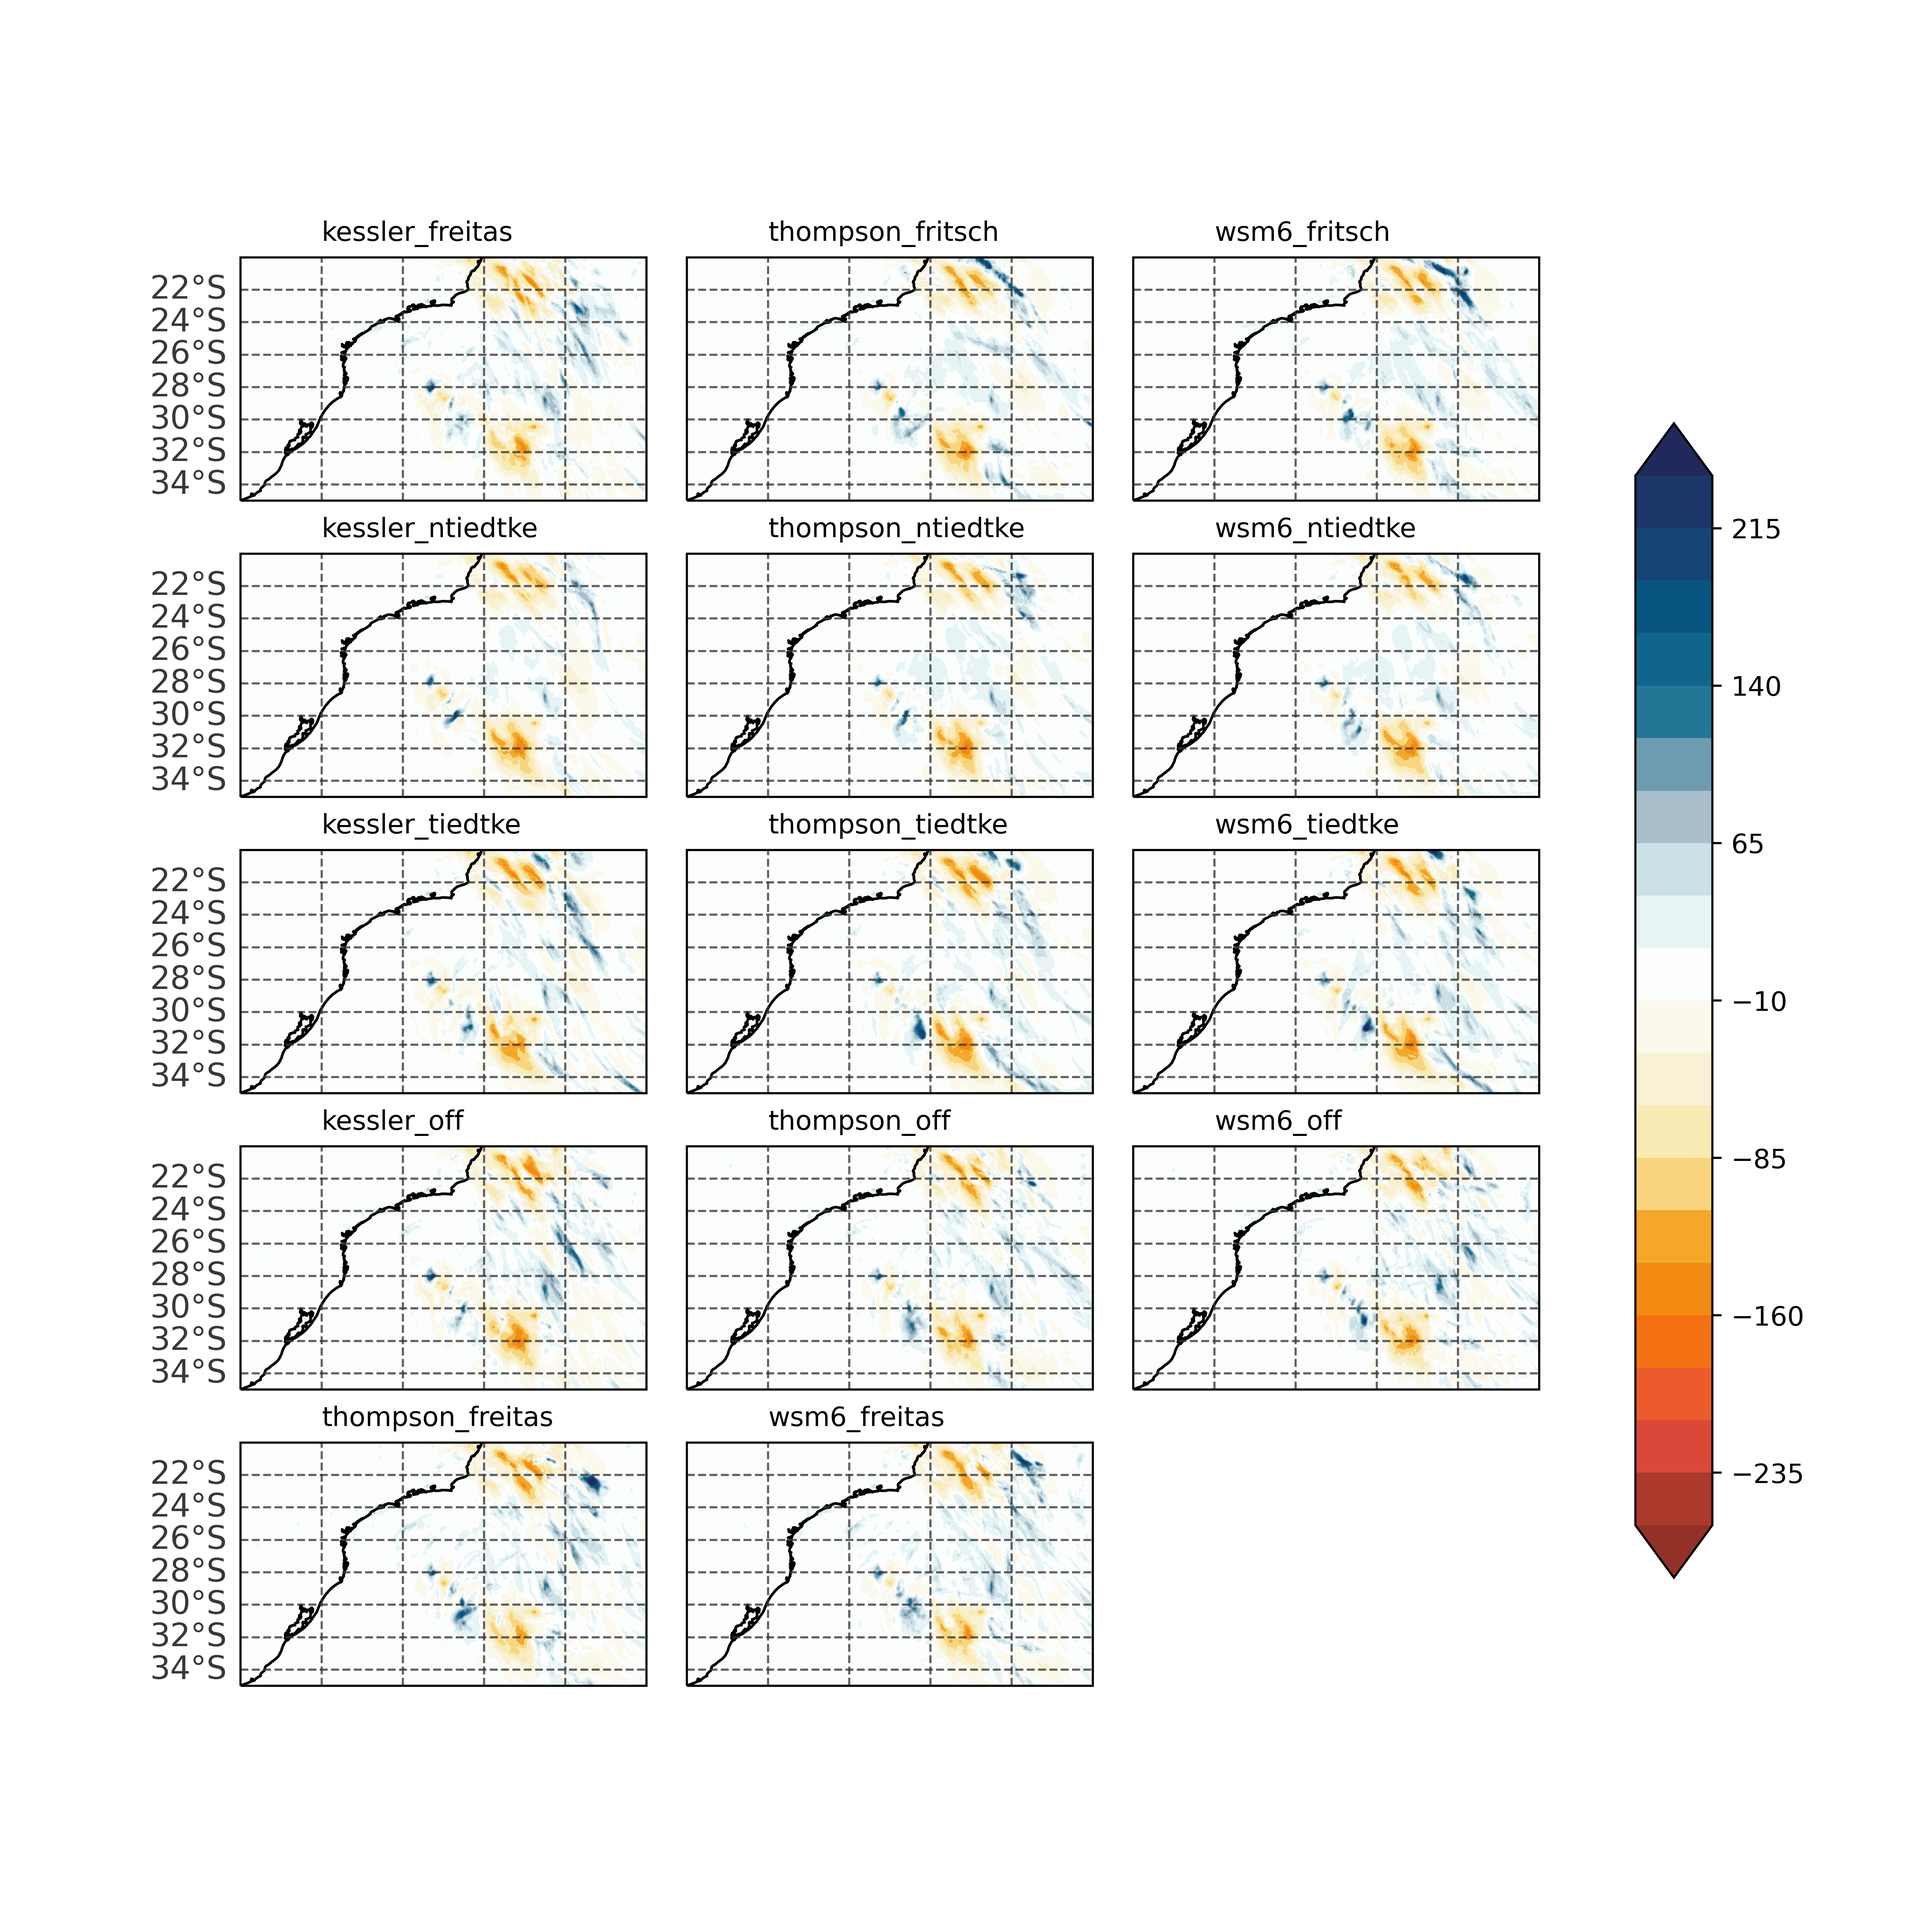
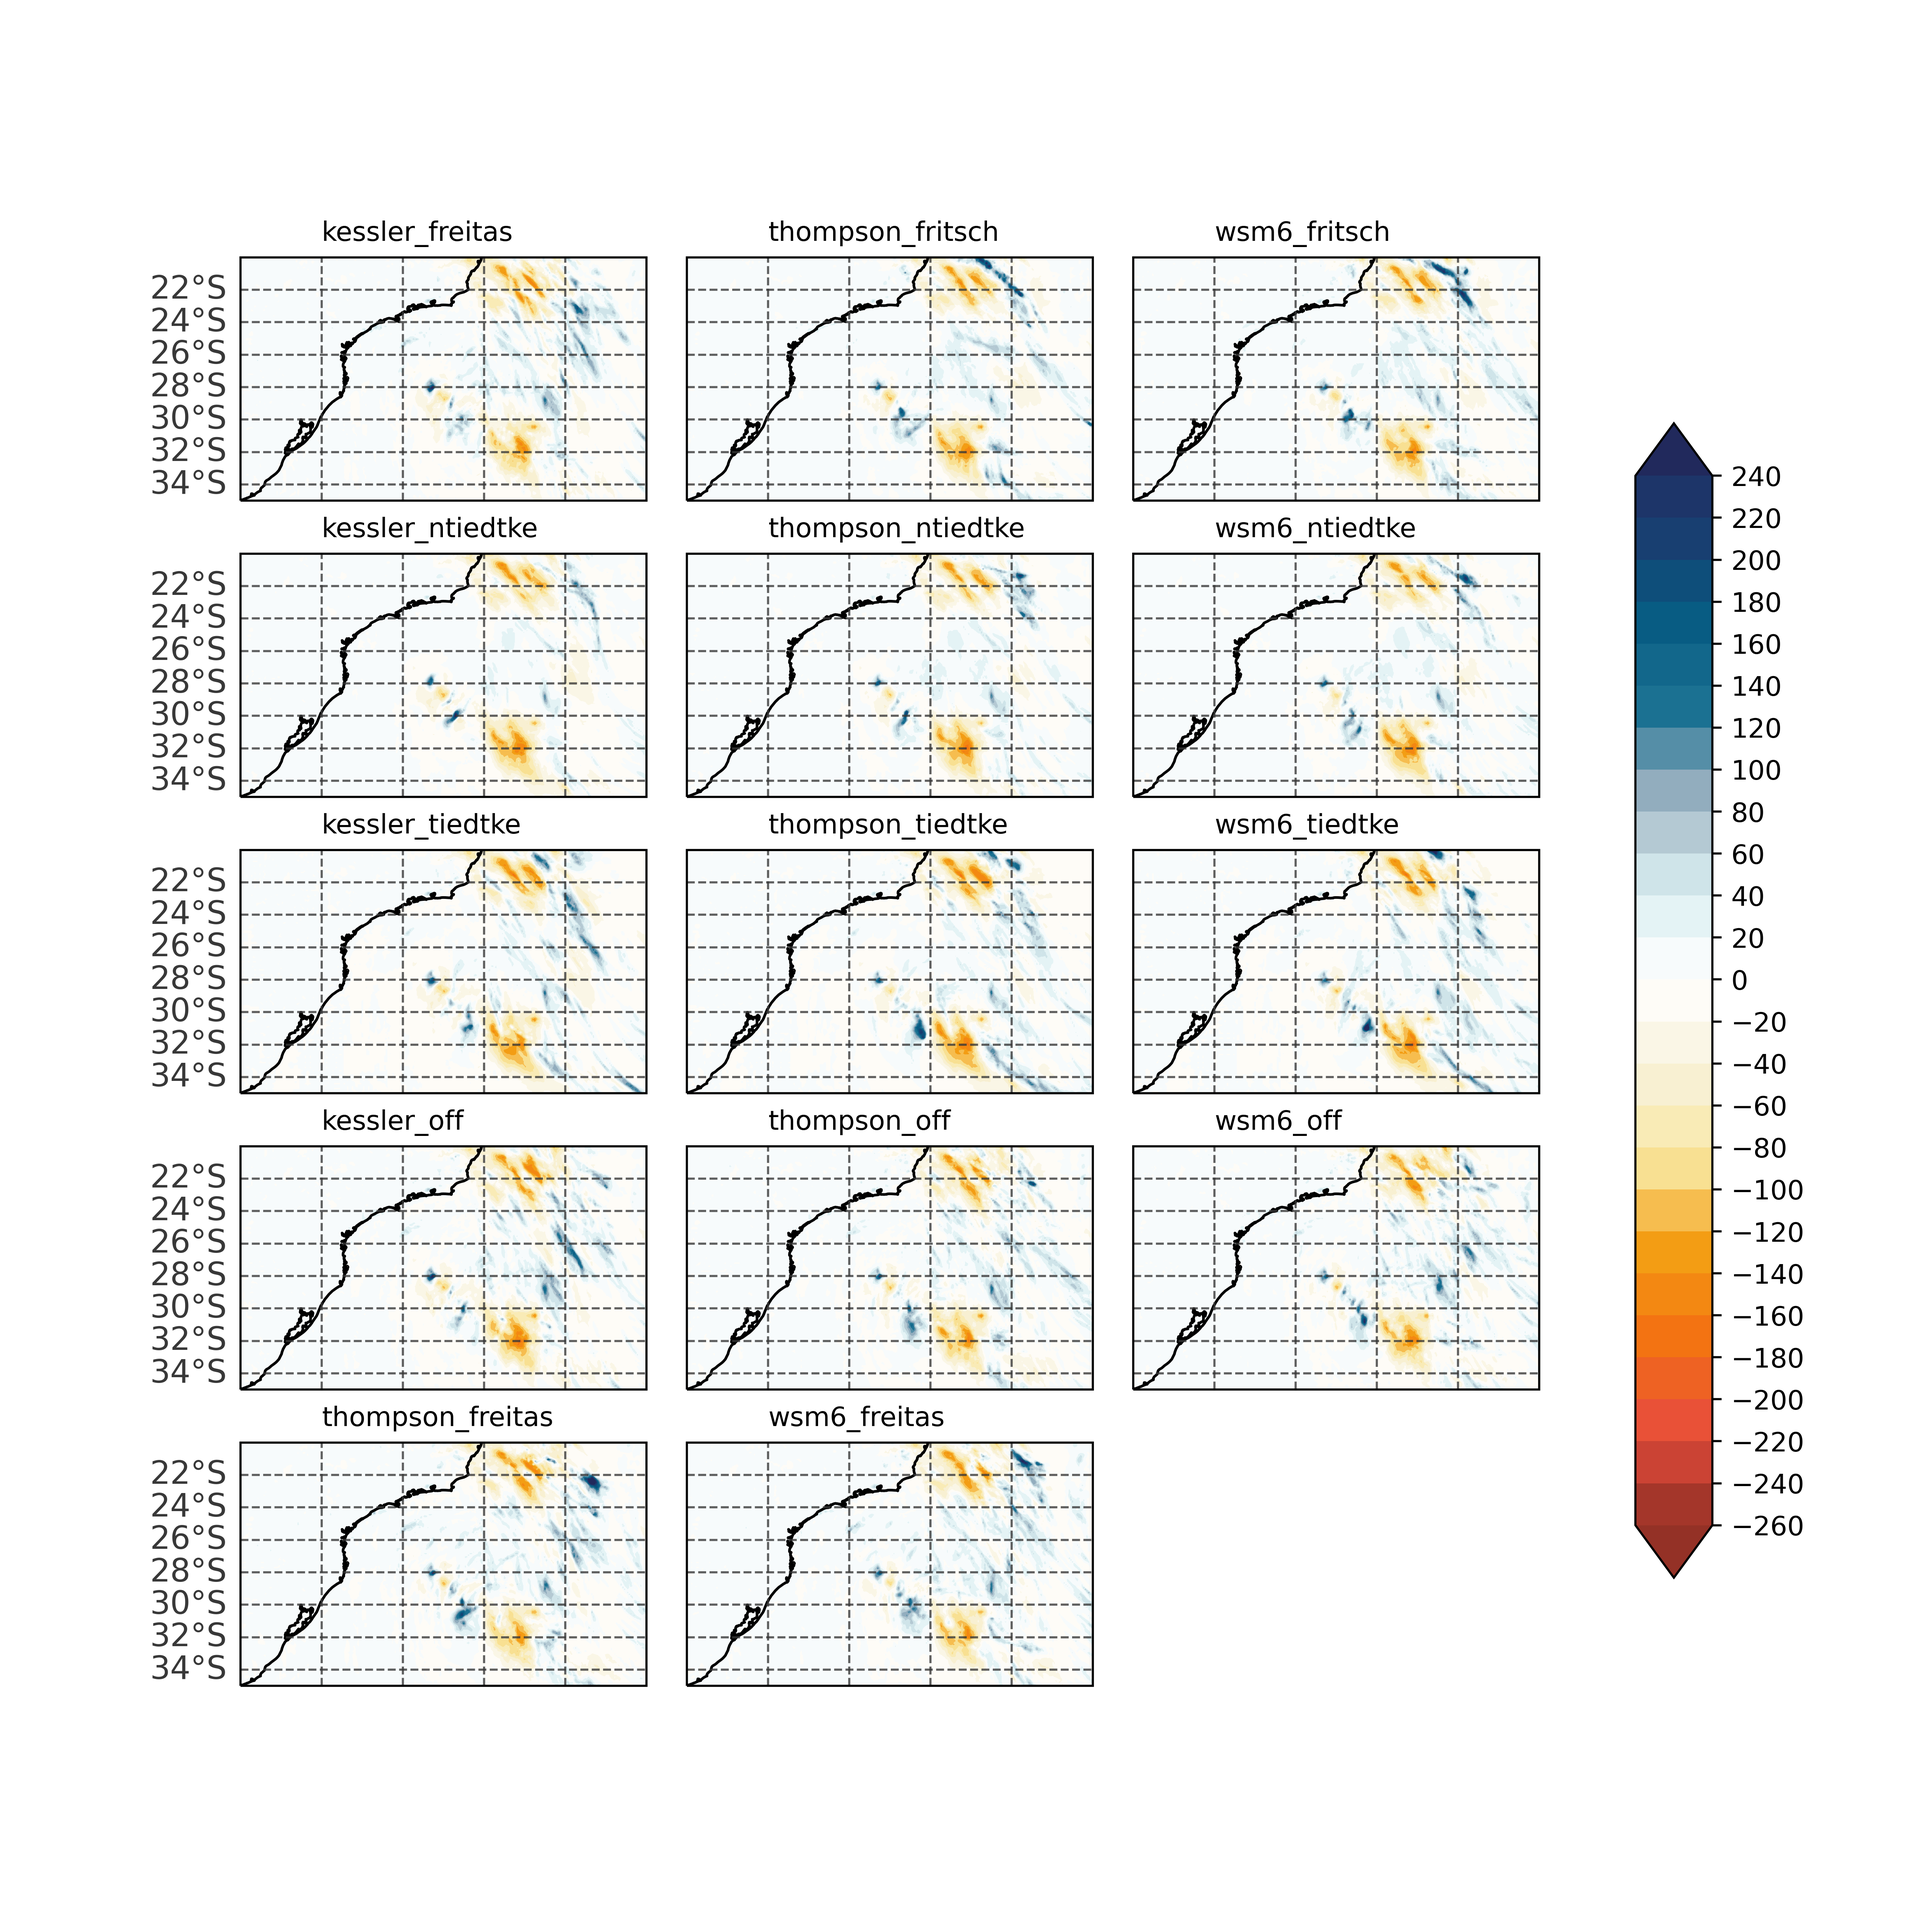
Update: bias levels

diff --git a/src/validate_precipitation.py b/src/validate_precipitation.py
@@ -3,10 +3,10 @@
 #                                                         :::      ::::::::    #
 #    validate_precipitation.py                          :+:      :+:    :+:    #
 #                                                     +:+ +:+         +:+      #
-#    By: Danilo  <danilo.oceano@gmail.com>          +#+  +:+       +#+         #
+#    By: Danilo <danilo.oceano@gmail.com>           +#+  +:+       +#+         #
 #                                                 +#+#+#+#+#+   +#+            #
 #    Created: 2023/02/08 09:52:10 by Danilo            #+#    #+#              #
-#    Updated: 2023/07/11 11:29:12 by Danilo           ###   ########.fr        #
+#    Updated: 2023/07/11 15:05:19 by Danilo           ###   ########.fr        #
 #                                                                              #
 # **************************************************************************** #
 
@@ -363,12 +363,14 @@ def plot_precipitation_panels(
             i+=1
 
     cb_axes = fig.add_axes([0.85, 0.18, 0.04, 0.6])
-    fig.colorbar(cf, cax=cb_axes, orientation="vertical") 
+     
     fig.subplots_adjust(wspace=0.1,hspace=0, right=0.8)
 
     if bias_flag == False:
+        cbar = fig.colorbar(cf, cax=cb_axes, orientation="vertical")
         fname = f"{figures_directory}/{benchmarks_name}_acc_prec.png"
     else:
+        cbar = fig.colorbar(cf, cax=cb_axes, orientation="vertical", ticks=bias_levels)
         fname = f"{figures_directory}/{benchmarks_name}_acc_prec_bias.png"
     fig.savefig(fname, dpi=500)
     print(fname,'saved')
@@ -602,7 +604,7 @@ def main(benchmarks_directory, benchmarks_name, experiment_directory, imerg_file
     else:
         max_bias = -min_bias
     print(f"Processed min bias = {min_bias}, updated max bias = {max_bias}")
-    bias_levels = np.arange(min_bias, max_bias, 25)
+    bias_levels = np.arange(min_bias, max_bias, 20)
     bias_norm = colors.TwoSlopeNorm(vmin=min_bias, vcenter=0, vmax=max_bias)
 
     ## Make plots
